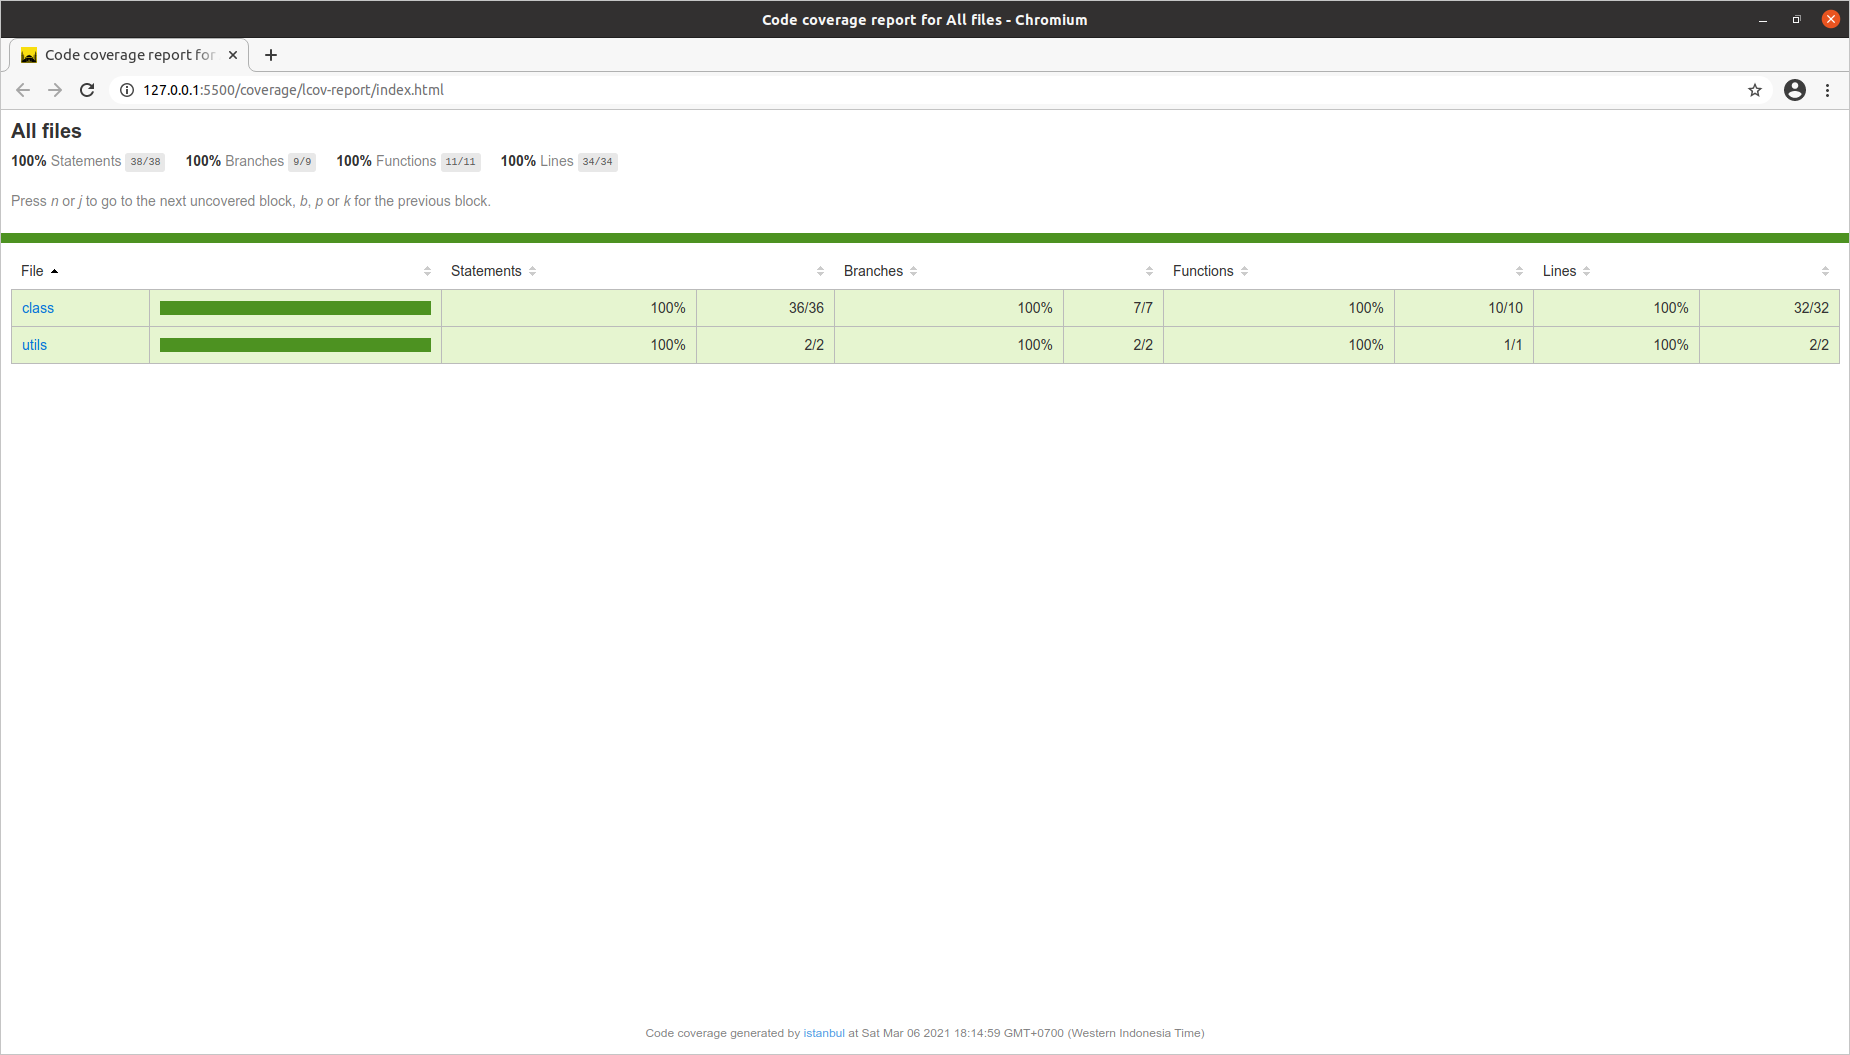
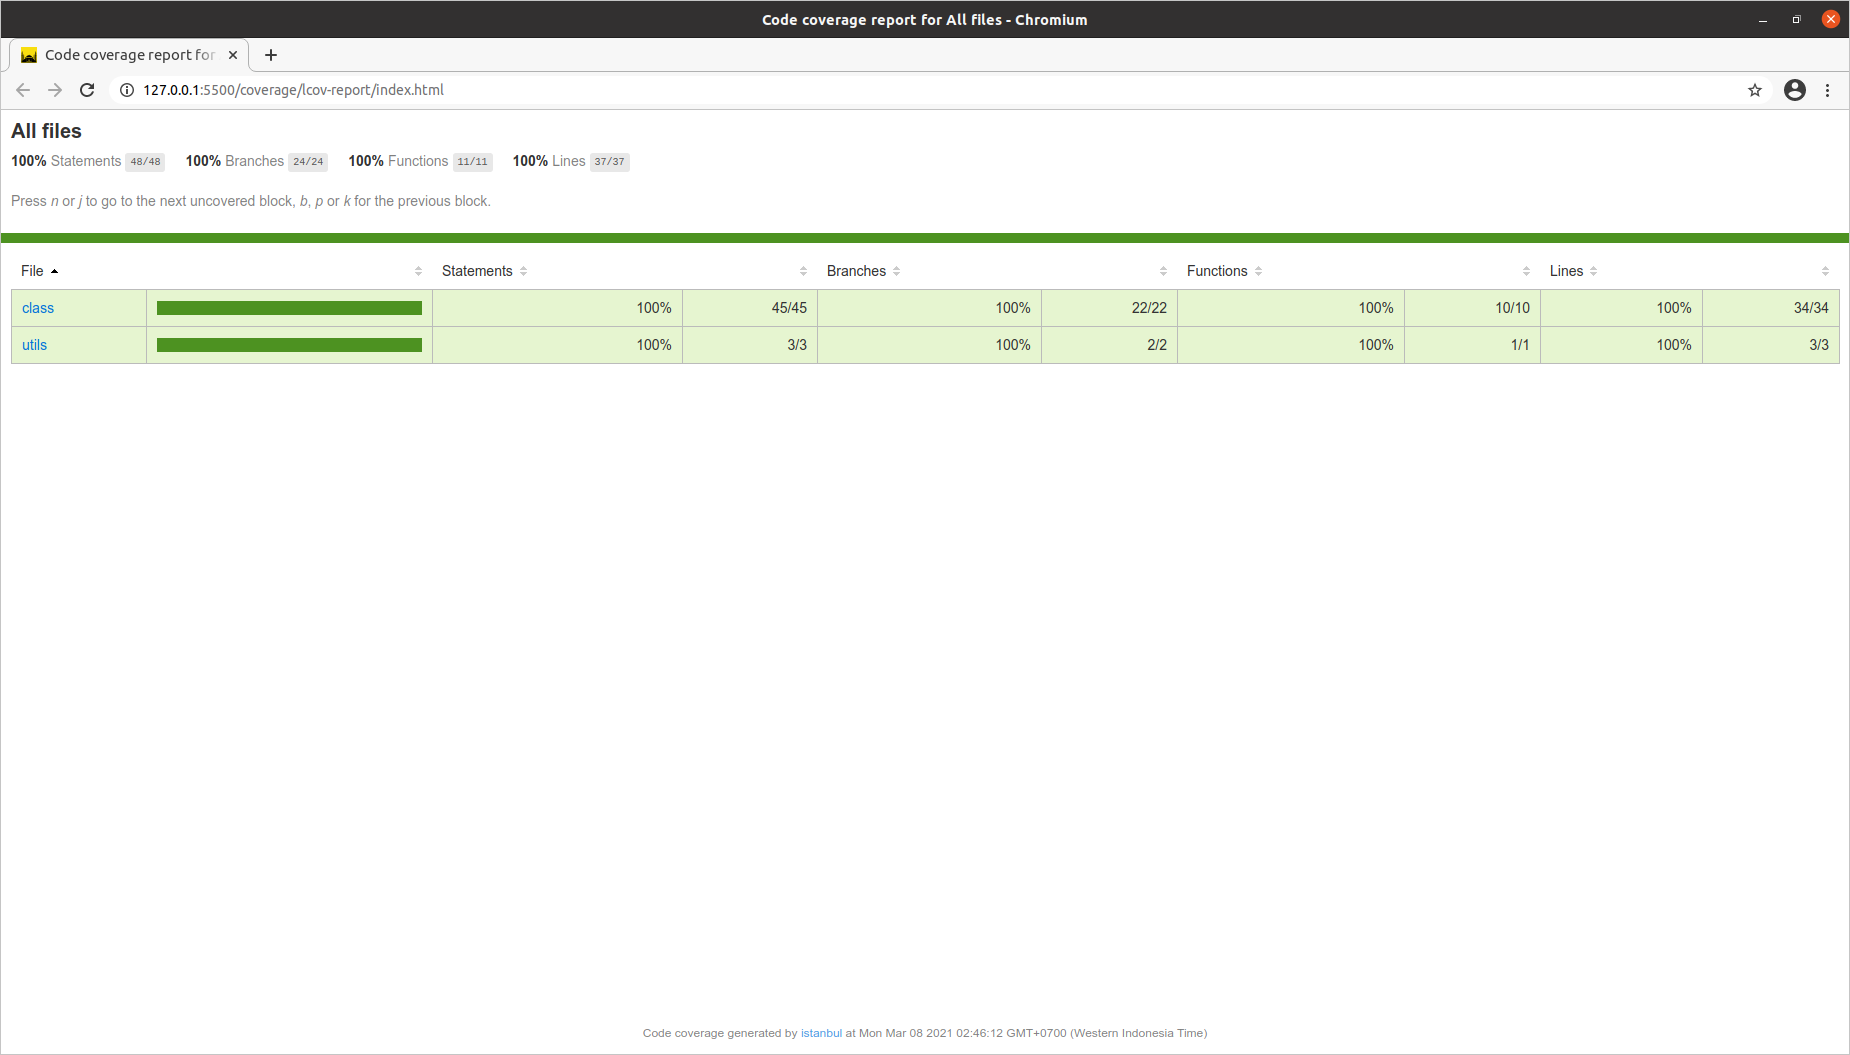
refactor done,readme done,unit testing done,bin done,all fix - time to sleep

diff --git a/class/ParkingLot.js b/class/ParkingLot.js
@@ -10,14 +10,14 @@ class ParkingLot {   // base class
   }  
   
   createParkingLot(parkingLotCapacity) {  
-    if (+parkingLotCapacity<=0) {throw new Error( 'Minimum one slot is required to create parking lot' )}
+    if (isNaN(+parkingLotCapacity) || (+parkingLotCapacity<=0)) {throw new Error('Please provide parking lot capacity with a postive number greater than zero')}
     this.parkingSlots=new Array(+parkingLotCapacity).fill('available')
     return `Created parking lot with ${parkingLotCapacity} slots`
   }
   
   carPark(carNumber) {
     if (this.parkingSlots.length===0) {throw new Error('Sorry, parking lot is not created yet'  )}
-    if(!carNumber) {throw new Error( 'Car park : Please provide car number')}
+    if(!carNumber) {throw new Error( 'Please provide car number')}
     let totalAvailableSlots=this.parkingSlots.filter(slot=>slot ==='available').length
     if (totalAvailableSlots>0) {
         let index=this.parkingSlots.findIndex(slot=>slot==='available')
@@ -30,9 +30,9 @@ class ParkingLot {   // base class
   }
 
   carLeave(carNumber,parkingTime){
-    if(!carNumber) {throw new Error('Car leave : Please provide car number & parkinngTime')}
-    if(!parkingTime) {throw new Error('Car leave : Please provide parkinngTime')}
-    if (!/[0-9]/.test(parkingTime) && parkingTime < 0) {throw new Error('Car leave : Please provide parking time with positive number >= 0')}
+    if(!carNumber) {throw new Error('Please provide car number & parkingTime')}
+    if(!parkingTime) {throw new Error('Please provide parkingTime')}
+    if (isNaN(+parkingTime) || (+parkingTime <= 0)) {throw new Error('Please provide parking time with a positive number greater than or equal to 0')}
     let index=+this.parkingSlots.findIndex(slot=>slot===carNumber)
     if (index ===-1) {throw new Error( `Registration number ${carNumber} not found`)}
     this.parkingSlots[index] = 'available'
@@ -47,7 +47,7 @@ class ParkingLot {   // base class
           let number = index+1
           arr.push(number + '.  ' + this.parkingSlots[index]) }
         })
-    if (arr.length === 0 ) {throw new Error('Sorry, parking lot is empty')}  
+    if (arr.length === 1 ) {throw new Error('Sorry, parking lot is empty')}  
     return arr
   }
 }

diff --git a/tests/ParkingLot.test.js b/tests/ParkingLot.test.js
@@ -5,13 +5,6 @@ clear()
 const ParkingLot = require('../class/ParkingLot')
 let parking= new ParkingLot()
 
-// describe('car park but parking lot is not created ', function () {
-//     test('carPark', function (done) {
-//         expect(parking.carPark('KA-01-HH-1234')
-//         ).toBe('Sorry, parking lot is not created yet')
-//         done() 
-//     })
-// })        
 
 describe('Parking lot is not created ', () => {
     test('carPark', () => {
@@ -19,9 +12,9 @@ describe('Parking lot is not created ', () => {
     })
 })
 
-describe('Minimum one slot is required to create parking lot', () => {
-    test('carPark', () => {
-        expect(()=>{parking.createParkingLot(0)}).toThrow(Error)
+describe('Please provide parking lot capacity with a postive number greater than zero', () => {
+    test('createParkinglot', () => {
+        expect(()=>{parking.createParkingLot('saya')}).toThrow(Error)
     })
 })
 
@@ -31,6 +24,12 @@ describe('Created parking lot with 6 slots', function () {
         expect(parking.createParkingLot(6)
         ).toBe('Created parking lot with 6 slots')
         done() 
+    })
+})
+
+describe('Sorry, parking lot is empty', () => {
+    test('status', () => {
+        expect(()=>{parking.parkingSlotsStatus()}).toThrow(Error)
     })
 })
 
@@ -176,11 +175,6 @@ describe('car park in slot 3', function () {
     })
 })
 
-describe(' Sorry, parking lot is full', () => {
-    test('carPark', () => {
-        expect(()=>{parking.carPark('KA-01-HH-1234')}).toThrow(Error)
-    })
-})
 
 describe('get slots status length which are 6 slots + 1 header  = 7 ', function () {
     test('parkingSlotsStatus', function (done) {
@@ -190,3 +184,15 @@ describe('get slots status length which are 6 slots + 1 header  = 7 ', function 
     })
 })
 
+
+describe(' Sorry, parking lot is full', () => {
+    test('carPark', () => {
+        expect(()=>{parking.carPark('KA-01-HH-1234')}).toThrow(Error)
+    })
+})
+
+describe('Please provide parking time with a positive number greater than or equal to 0', () => {
+    test('carLeave', () => {
+        expect(()=>{parking.carLeave('CA-09-IO-1111',-10)}).toThrow(Error)
+    })
+})

diff --git a/README.md b/README.md
@@ -110,11 +110,12 @@ Slot No.  Registration  No.
 
 There are two classes defined:
 
-`ParkingLot()`: It is the main class which is used to initialize a parking lot. In each parking lot there is maximum number of slots and an array of slots that will be occupied by the car. It has following methods:
+### 1. `ParkingLot()`: 
+It is the main class which is used to initialize a parking lot ,array of slots that will be occupied by the car. It has following methods:
 
 - `createParkingLot(input)` : Creates a parking lot with given capacity input. It throws an error `Minimum one slot is required to create parking slot` 
  
-    - `Minimum one slot is required to create parking slot` : When parking lot is not greater than or equal to one ( 1 slot )
+    - `Please provide parking lot capacity with a postive number greater than zero` : When number input is not greater than or equal to one ( minimun 1 slot ) or input is string
 
    
 - `carPark(input)` : Allocates nearest slot from entry gate to the car. It can throw following errors:
@@ -129,14 +130,14 @@ There are two classes defined:
     - `Please provide car number and parking time` : When input contains either of two or both of them  i.e. car number or parking time
     - `Please provide parking time` : When input contains car number only.
     - `Slot number <carNumber> is not found` when slot number is absent.
-
+    - `Please provide parking time with a positive number greater than or equal to 0` when parking time input is string or negative number
 
 - `parkingSlotsStatus()` : Returns an array containing slot number and car number. It throws an error :
     
-    -`Sorry, parking lot is empty` if parking lot is empty.
+    -`Sorry, parking lot is empty` if there is no car in each slot
 
 
-`Car()`
+### 2. `Car()`
 - `new Car(carNumber)` : Constructor used to initialize a car object containing 1 field, car number
 
 
